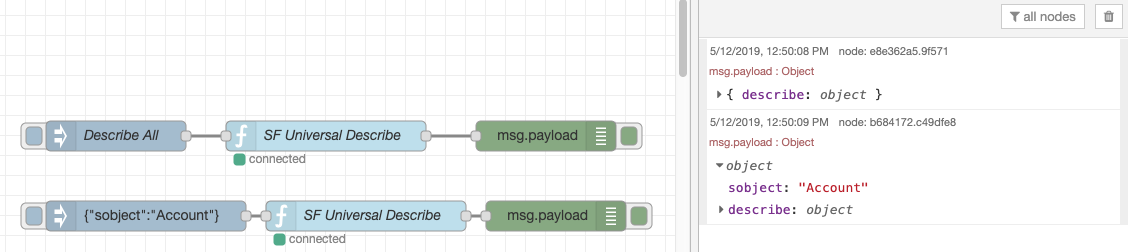
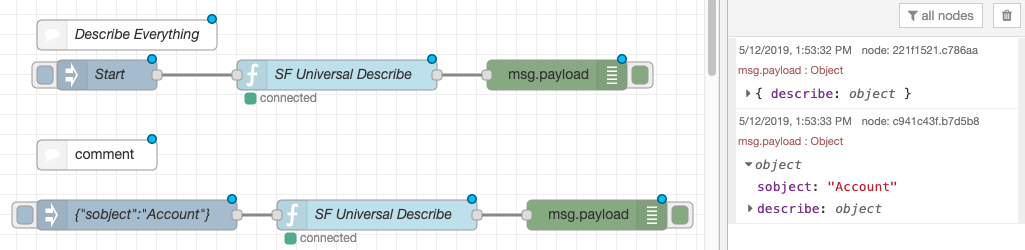
FIX: add universal describe that was lost
grumble grumble…

diff --git a/README.md b/README.md
@@ -107,6 +107,8 @@ Each configuration manages the connection to salesforce, and emits events to tho
 
 For nodes that subclass the [connection.SfConnectionReceiver](#connectionsfconnectionreceiver) - this is all handled for you... For more information, [please see that class](nodes/connection/sf-connection-receiver.js)
 
+---
+
 ## [query.SfSoqlQuery](nodes/query/sf-soql-query.js)
 
 Use this node to perform a SOQL query to capture information from Salesforce
@@ -149,6 +151,8 @@ Use this node to perform a SOQL query to capture information from Salesforce
 </table>
 
 ![Screenshot of Soql Query](docs/images/SoqlQuery.jpg)
+
+---
 
 ## [platformEvents.SfPlatformEventSubscriber](nodes/platformEvents/sf-platform-event-sub.js)
 
@@ -210,6 +214,7 @@ To force the replay Id, configure it with an exclaimation mark / bang at the end
 For example: 12!
 
 
+---
 
 ## [platformEvents.SfPlatformEventPublisher](nodes/platformEvents/sf-platform-event-pub.js)
 
@@ -253,6 +258,8 @@ More on Platform Events can also be [found on Trailhead.Salesforce.com](https://
 
 ![Screenshot of Publisher](docs/images/publisher.jpg)
 
+
+---
 
 ## [query.SfUniversalQuery](nodes/nodes/query/sf-universal-query.js)
 
@@ -322,6 +329,68 @@ Supports selection of the API, queries that can be (environment variables, globa
 
 
 
+---
+
+## [describe.SfUniversalDescribe](nodes/describe/sf-universal-describe.js)
+
+Use this node to describe all objects or just a particular object using the `Metadata API`, `Tooling API` or `SOAP API`.
+
+The name of the object to describe can also be defined either as a message property, or as a literal string.
+
+<b>Please note there is a bug with Node Red where the sobject appears required when it is not. The sobject is only required when not performing a `describe all`</b>
+
+## Example Flow
+
+	[{"id":"7061841b.7dc20c","type":"tab","label":"Describe","disabled":false,"info":""},{"id":"ba6d47c3.0396f8","type":"inject","z":"7061841b.7dc20c","name":"Start","topic":"","payload":"{}","payloadType":"json","repeat":"","crontab":"","once":false,"onceDelay":0.1,"x":150,"y":80,"wires":[["806d933.686d77"]]},{"id":"806d933.686d77","type":"sf-universal-describe","z":"7061841b.7dc20c","name":"","sfconn":"73000fb4.ffb8e","api":"soap","describeAll":true,"objectName":"","objectNameType":"msg","target":"payload.describe","x":380,"y":80,"wires":[["221f1521.c786aa"]]},{"id":"221f1521.c786aa","type":"debug","z":"7061841b.7dc20c","name":"","active":true,"tosidebar":true,"console":false,"tostatus":false,"complete":"false","x":600,"y":80,"wires":[]},{"id":"ea764edf.67e0c","type":"comment","z":"7061841b.7dc20c","name":"Describe Everything","info":"","x":170,"y":40,"wires":[]},{"id":"6c23a421.ca6f3c","type":"comment","z":"7061841b.7dc20c","name":"","info":"","x":140,"y":160,"wires":[]},{"id":"5c26c6e1.7c68d8","type":"inject","z":"7061841b.7dc20c","name":"{\"sobject\":\"Account\"}","topic":"","payload":"{\"sobject\":\"Account\"}","payloadType":"json","repeat":"","crontab":"","once":false,"onceDelay":0.1,"x":180,"y":220,"wires":[["722eb5e5.bc948c"]]},{"id":"722eb5e5.bc948c","type":"sf-universal-describe","z":"7061841b.7dc20c","name":"","sfconn":"73000fb4.ffb8e","api":"soap","describeAll":false,"objectName":"payload.sobject","objectNameType":"msg","target":"payload.describe","x":420,"y":220,"wires":[["c941c43f.b7d5b8"]]},{"id":"c941c43f.b7d5b8","type":"debug","z":"7061841b.7dc20c","name":"","active":true,"tosidebar":true,"console":false,"tostatus":false,"complete":"false","x":640,"y":220,"wires":[]},{"id":"73000fb4.ffb8e","type":"sf-connection-emitter","z":"","host":"SF_HOST","hostType":"env","username":"SF_USERNAME","usernameType":"env","password":"SF_PASSWORD","passwordType":"env","token":"","tokenType":"env"}]
+
+![Screenshot of universal describe](docs/images/UniversalDescribe.png)
+
+<table>
+	<thead>
+		<tr>
+			<th>Name</th>
+			<th>Type</th>
+			<th>Description</th>
+			<th>Example</th>
+		</tr>
+	</thead>
+	<tbody>
+	<tbody>
+		<tr>
+			<td>Name</td>
+			<td>String</td>
+			<td>Label to show in Node Red Editor</td>
+			<td>PE Subscription</td>
+		</tr>
+		<tr>
+			<td>Connection</td>
+			<td> connection.SfConnectionEmitter</td>
+			<td>The connection emitter configuration to use</td>
+			<td>sfconn</td>
+		</tr>
+		<tr>
+			<td>Describe All</td>
+			<td>boolean</td>
+			<td>Whether to describe everything (true) or only an sobject (false)</td>
+			<td>false</td>
+		</tr>
+		<tr>
+			<td>SObject Name</td>
+			<td>string</td>
+			<td>API Name of the SObject to describe</td>
+			<td>Account</td>
+		</tr>
+		<tr>
+			<td>Target</td>
+			<td>String</td>
+			<td>The path within the message to put the results</td>
+			<td>payload.results</td>
+		</tr>
+	</tbody>
+</table>
+
+
+---
 
 ## [http.SfUniversalHttp](nodes/http/sf-universal-http)
 
@@ -401,50 +470,6 @@ such as templated from a previous describe...
 		</tr>
 	</tbody>
 </table>
-
-
-
-## [platformEvents.SfPlatformEventPublisher](nodes/platformEvents/sf-platform-event-pub.js)
-
-Use this to publish <a href='https://developer.salesforce.com/docs/atlas.en-us.platform_events.meta/platform_events/platform_events_intro.htm'>Salesforce Platform Events</a>
-
-Simply apply the object you want to publish as the msg.payload and it will handle the rest.
-
-More on Platform Events can also be [found on Trailhead.Salesforce.com](https://trailhead.salesforce.com/en/content/learn/modules/platform_events_basics)
-
-<table>
-	<thead>
-		<tr>
-			<th>Name</th>
-			<th>Type</th>
-			<th>Description</th>
-			<th>Example</th>
-		</tr>
-	</thead>
-	<tbody>
-	<tbody>
-		<tr>
-			<td>Name</td>
-			<td>String</td>
-			<td>Label to show in Node Red Editor</td>
-			<td>PE Subscription</td>
-		</tr>
-		<tr>
-			<td>Connection</td>
-			<td> connection.SfConnectionEmitter</td>
-			<td>The connection emitter configuration to use</td>
-			<td>sfconn</td>
-		</tr>
-		<tr>
-			<td>Event API Name</td>
-			<td>string</td>
-			<td>Platform Event Object API Name</td>
-			<td>ltng_Hello__e</td>
-		</tr>
-	</tbody>
-</table>
-
-![Screenshot of Publisher](docs/images/publisher.jpg)
 
 ---
 
